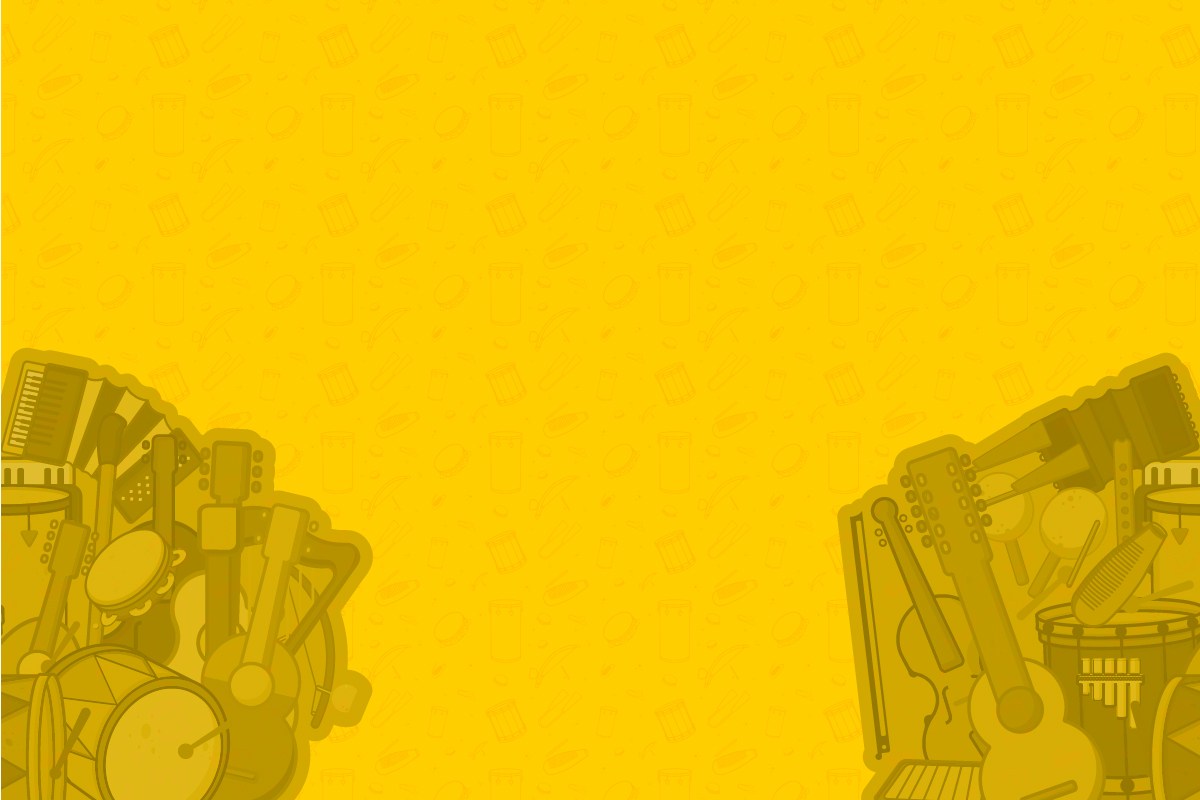
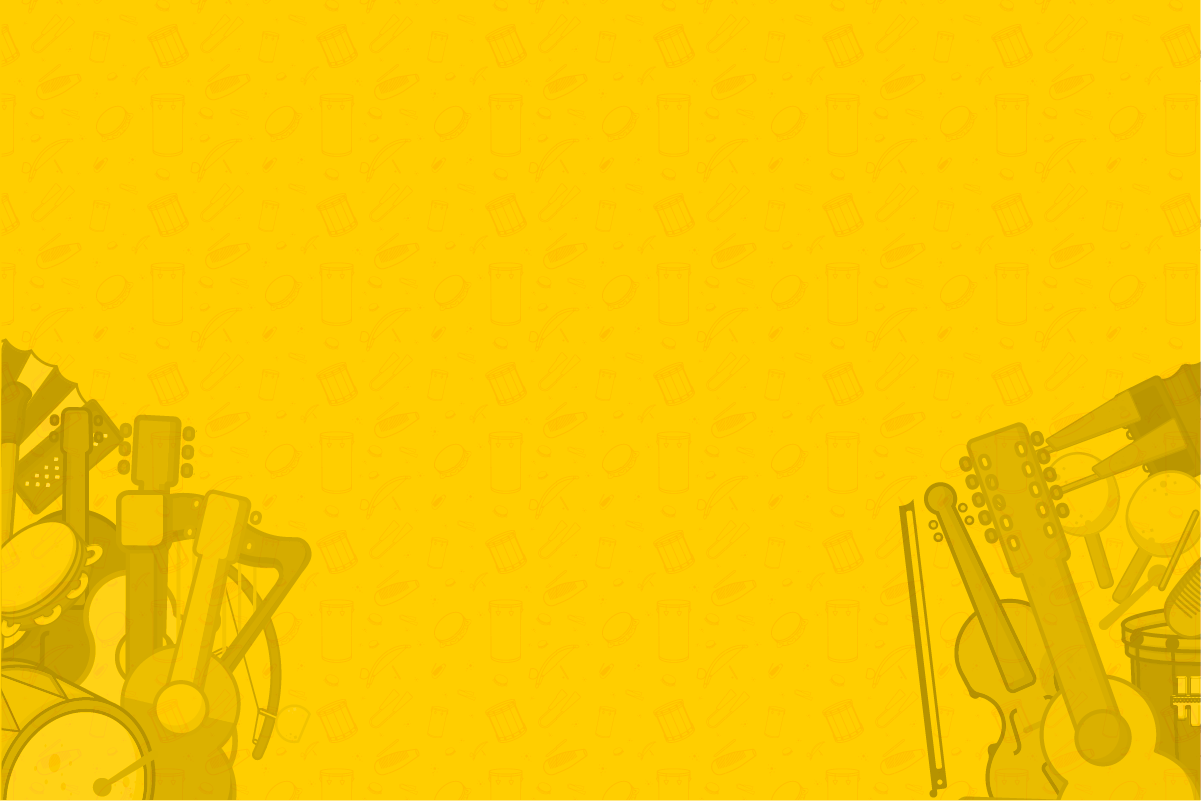
vista mainscreen

Changed region(s): [[0.6783, 0.4375, 1.0, 1.0], [0.0, 0.4062, 0.3083, 1.0]]

diff --git a/src/containers/MainScreen.js b/src/containers/MainScreen.js
@@ -1,0 +1,34 @@
+import React, { Component } from 'react';
+import {
+	Image,
+	StyleSheet,
+	Text,
+	View,
+	Dimensions,
+	TouchableOpacity
+} from 'react-native';
+import { Actions } from 'react-native-router-flux';
+import appStyle from '../statics/styles/appStyle';
+
+export default class MainScreen extends Component {
+
+	onMusicListScreen() {
+		Actions.musicListScreen();
+	}
+
+
+	render() {
+		return (
+			<View style={[styles.container]}>
+				<Image style={styles.backgroundScreen} source={require('../statics/images/fondoMain.png')}>
+					<Image style={styles.tituloMain} source={require('../statics/images/tituloMain.png')} />
+					<TouchableOpacity onPress={() => this.onMusicListScreen()}>
+						<Image style={styles.btnJugar} source={require('../statics/images/btnJugar.png')} />
+					</TouchableOpacity>
+				</Image>
+			</View>
+		);
+	}
+}
+
+const styles = StyleSheet.create(appStyle);

diff --git a/src/components/Draggable.js b/src/components/Draggable.js
@@ -24,11 +24,16 @@ export default class Draggable extends Component {
 				dy: this.state.pan.y
 			}]),
 			onPanResponderRelease: (e, gesture) => {
-				this.props.countInstruments();
 				if (this.isDropZone(gesture)) {
-					this.updateCountTrue();
+					this.props.countInstruments();
+					if(this.props.instrument.valid) {
+						this.updateCountTrue();
+					}
 				} else {
-					console.log(this.state.pan);
+					Animated.spring(
+						this.state.pan,
+						{ toValue: { x: 0, y: 0 } }
+					).start();
 				}
 			}
 		});
@@ -51,7 +56,7 @@ export default class Draggable extends Component {
 
 	isDropZone(gesture) {
 		let dz = this.props.containerzone;
-		return (gesture.moveY > dz.y && gesture.moveY < dz.y + dz.height) && this.props.instrument.valid;
+		return (gesture.moveY > dz.y && gesture.moveY < dz.y + dz.height);
 	}
 
 	playInstrument() {

diff --git a/src/containers/App.js b/src/containers/App.js
@@ -8,6 +8,7 @@ import React, { Component } from 'react';
 import { Actions, Scene, Router } from 'react-native-router-flux';
 import { BackHandler } from 'react-native';
 import SplashScreen from './SplashScreen';
+import MainScreen from './MainScreen';
 import MusicListScreen from './MusicListScreen';
 import MusicGameScreen from './MusicGameScreen';
 import MusicGameOver from './MusicGameOver';
@@ -34,6 +35,7 @@ export default class App extends Component {
 			<Router>
 				<Scene key="root" >
 					<Scene key="splashScreen" component={SplashScreen} hideNavBar />
+					<Scene key="mainScreen" component={MainScreen} hideNavBar/>
 					<Scene key="musicListScreen" component={MusicListScreen} hideNavBar />
 					<Scene key="musicGameScreen" component={MusicGameScreen} hideNavBar />
 					<Scene key="musicGameOver" component={MusicGameOver} hideNavBar />

diff --git a/src/statics/styles/appStyle.js b/src/statics/styles/appStyle.js
@@ -1,8 +1,17 @@
+import { Dimensions } from 'react-native';
+const window = Dimensions.get('window');
 export default {
 	container: {
 		flex: 1,
 		justifyContent: 'center',
 		alignItems: 'center',
+	},
+	backgroundScreen: {
+		flex: 1, 
+		justifyContent: 'center',
+		alignItems: 'center',
+		width: window.width, 
+		height: window.height,
 	},
 	backgroudLevel: {
 		padding: '5%',
@@ -10,6 +19,15 @@ export default {
 		width: '100%',
 		justifyContent: 'center',
 		alignItems: 'center',
+	},
+	tituloMain: {
+		width: window.width*0.405,
+		height: window.height*0.355,
+	},
+	btnJugar: {
+		width: window.width*0.305,
+		height: window.height*0.105,
+		marginTop: window.height*0.10,
 	},
 	title: {
 		height: 60,

diff --git a/src/containers/SplashScreen.js b/src/containers/SplashScreen.js
@@ -23,14 +23,15 @@ export default class SplashScreen extends Component {
 	}
 
 	goToMainScreen() {
-		Actions.musicListScreen();
+		Actions.mainScreen();
 	}
 
 
 	render() {
 		return (
-			<Image style={{ flex: 1, width: window.width, height: window.height }}
-				source={require('../statics/images/splash_animation/LOGO_18.png')} />
+			<View style={styles.container}>
+				<Image style={{width: window.width*0.40, height: window.height*0.70}} source={require('../statics/images/splash_animation/logo.png')} />
+			</View>
 		);
 	}
 }
